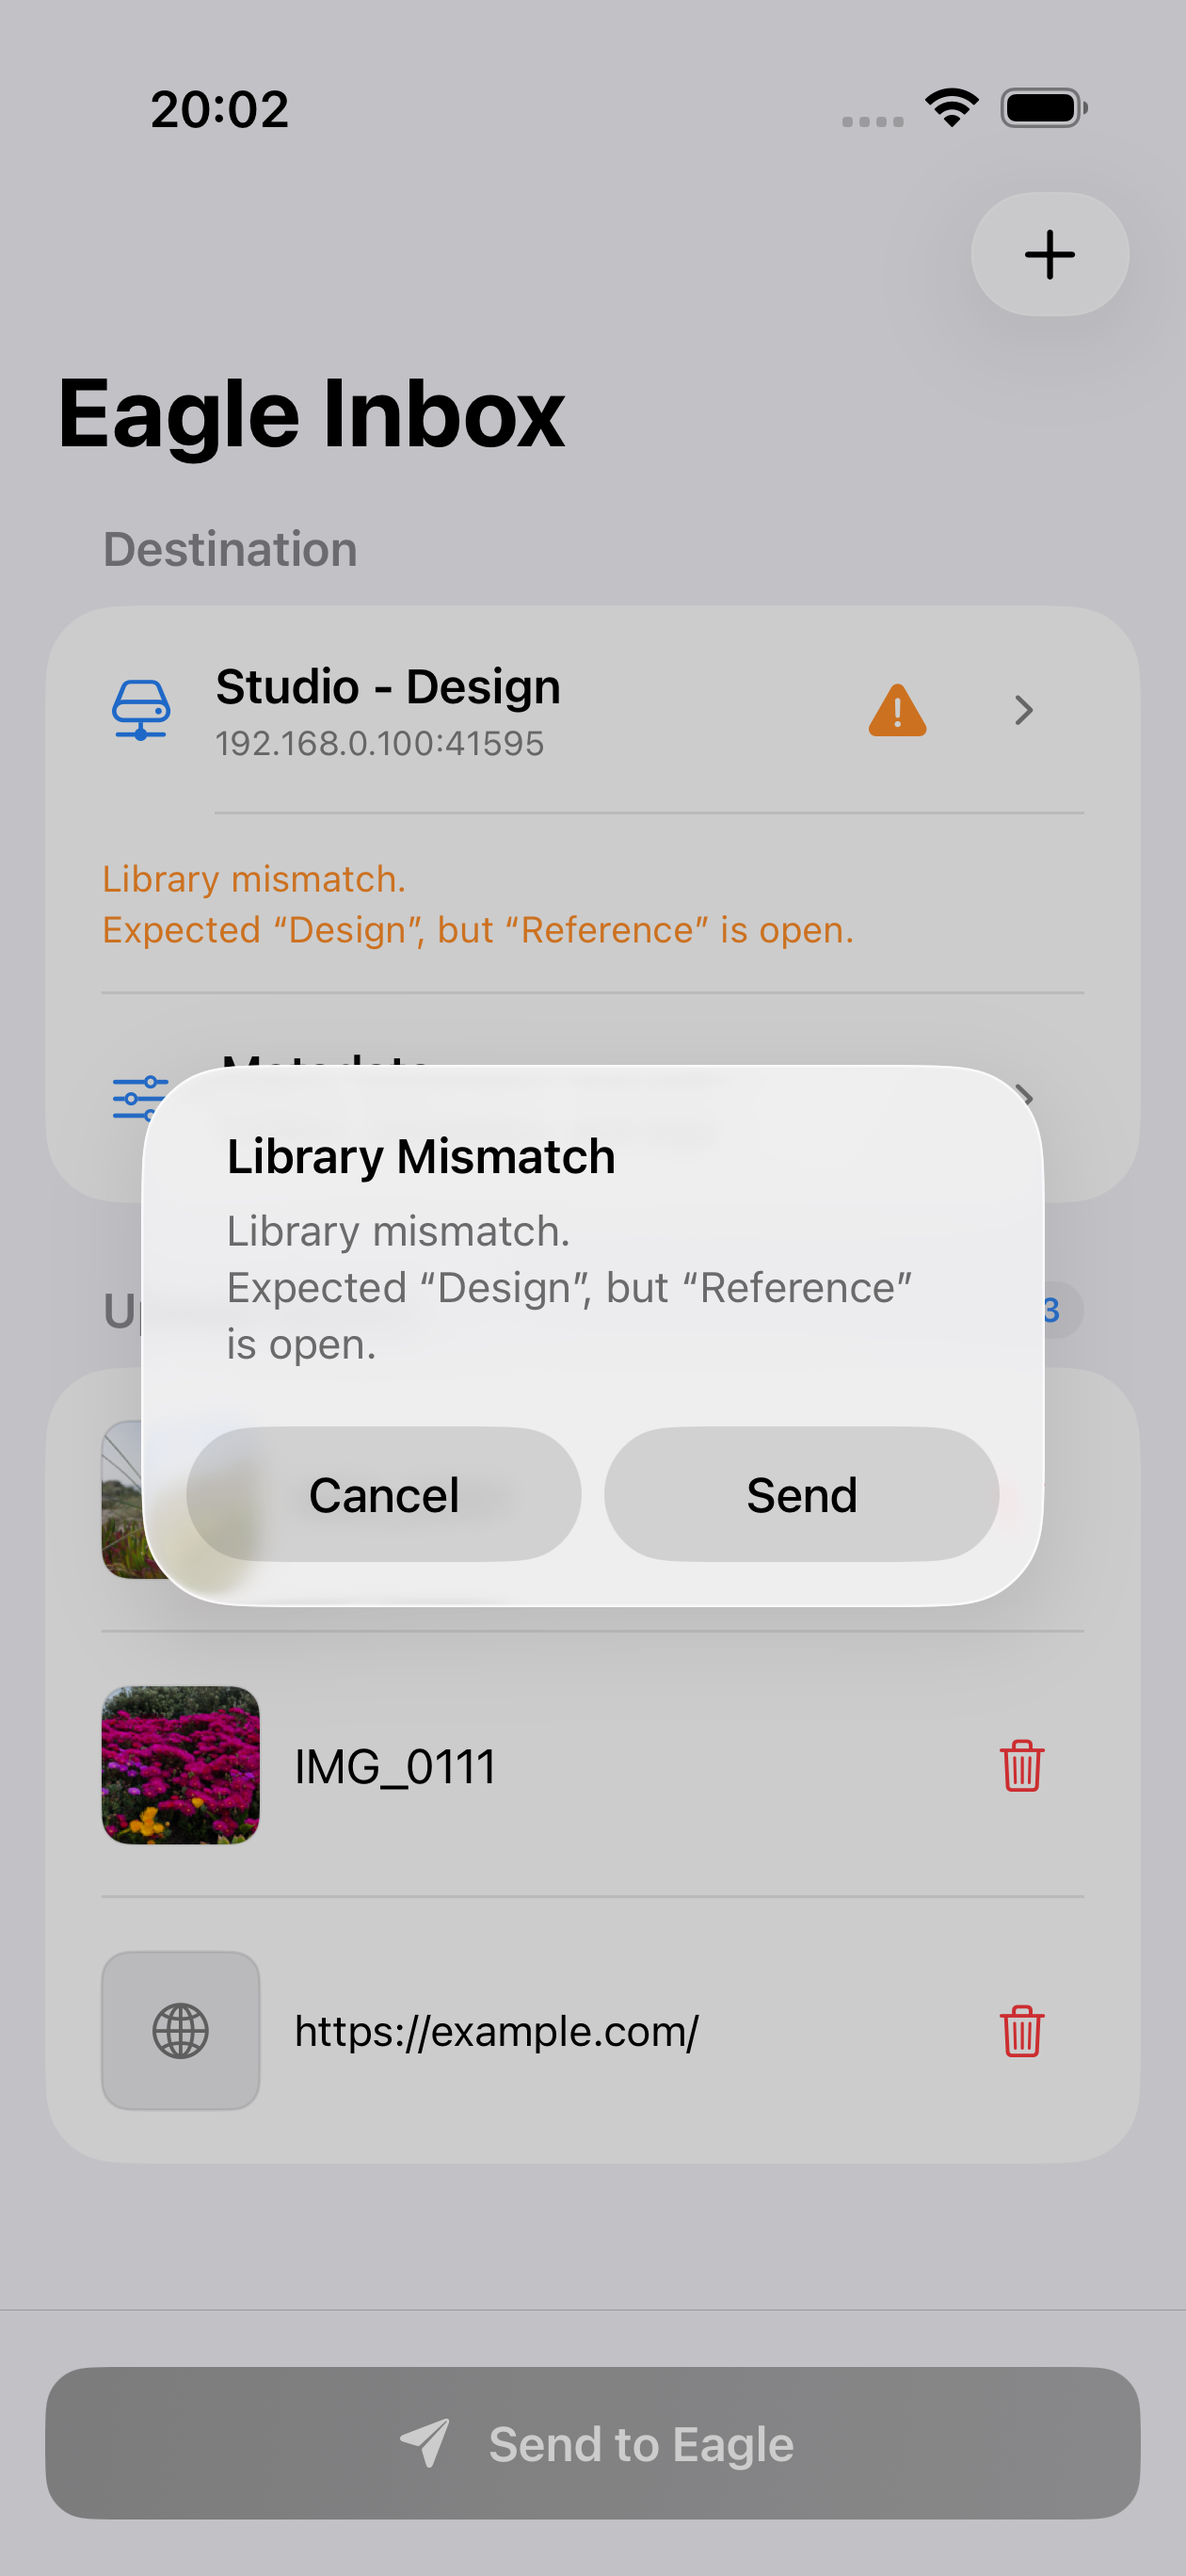
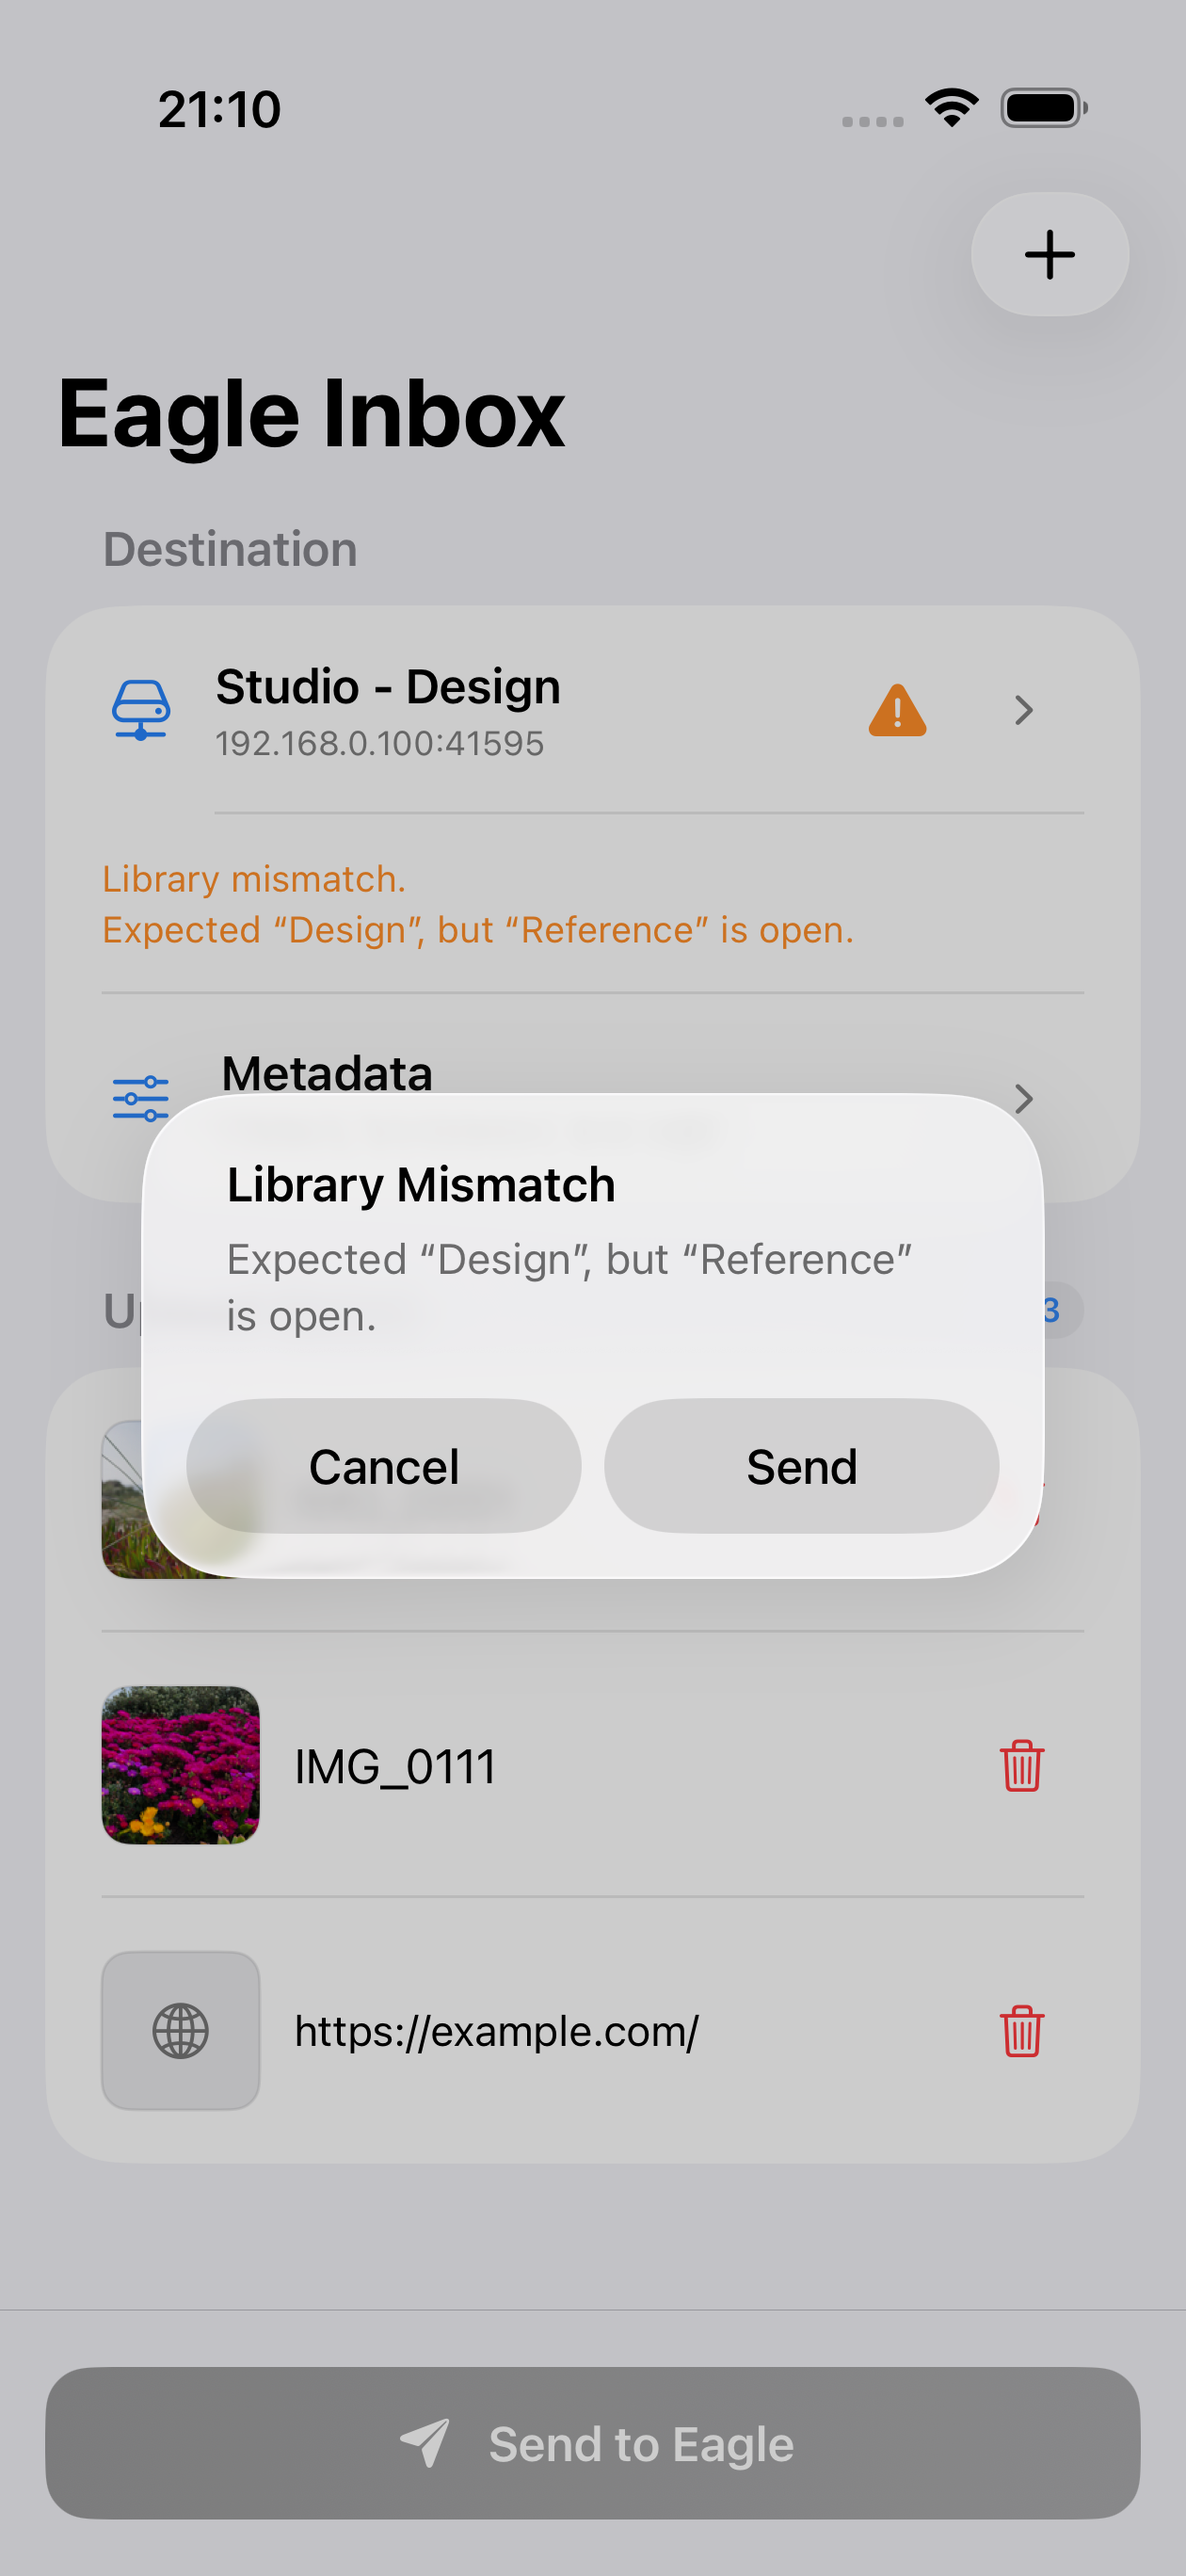
Fix library mismatch messages and update UI alerts for clarity

Changed region(s): [[0.1238, 0.4039, 0.8976, 0.6213], [0.1238, 0.0311, 0.2476, 0.0621], [0.8667, 0.4349, 0.8976, 0.466]]

diff --git a/EagleInboxUITests/ConnectionsNavigationUITests.swift b/EagleInboxUITests/ConnectionsNavigationUITests.swift
@@ -414,12 +414,17 @@ final class ConnectionsNavigationUITests: XCTestCase {
         )
         XCTAssertTrue(alert.buttons["Cancel"].exists)
         XCTAssertTrue(alert.buttons["Send"].exists)
-        let warning = alert.staticTexts.matching(
-            NSPredicate(format: "label CONTAINS %@", "Library mismatch.")
+        let message = alert.staticTexts.matching(
+            NSPredicate(format: "label CONTAINS %@", "Expected")
         ).firstMatch
-        XCTAssertTrue(warning.exists)
-        XCTAssertTrue(warning.label.contains("Design"))
-        XCTAssertTrue(warning.label.contains("Reference"))
+        XCTAssertTrue(message.exists)
+        XCTAssertTrue(message.label.contains("Design"))
+        XCTAssertTrue(message.label.contains("Reference"))
+        XCTAssertFalse(
+            message.label.localizedCaseInsensitiveContains(
+                "Library mismatch."
+            )
+        )
         attachScreenshot(named: "library-mismatch-send-confirmation")
     }
 

diff --git a/EagleInboxShare/ShareUploadView.swift b/EagleInboxShare/ShareUploadView.swift
@@ -151,7 +151,7 @@ struct ShareUploadView: View {
                     }
                 }
                 .alert(
-                    "Different Eagle Library",
+                    "Library Mismatch",
                     isPresented: Binding(
                         get: { model.pendingUploadLibraryMismatch != nil },
                         set: { isPresented in
@@ -169,7 +169,7 @@ struct ShareUploadView: View {
                         startUpload(confirming: mismatch)
                     }
                 } message: { mismatch in
-                    Text(mismatch.warningMessage)
+                    Text(mismatch.uploadConfirmationMessage)
                 }
             }
         }

diff --git a/Tests/CoreSmoke.swift b/Tests/CoreSmoke.swift
@@ -340,6 +340,10 @@ enum CoreSmoke {
             mismatch.warningMessage
                 == "Library mismatch.\nExpected “Design Library”, but “Reference Library” is open."
         )
+        precondition(
+            mismatch.uploadConfirmationMessage
+                == "Expected “Design Library”, but “Reference Library” is open."
+        )
         precondition(mismatch.libraryUpdateConfirmationMessage.contains("Update it to use “Reference Library”?"))
 
         // A changed library is proposed to the editor; applying and saving it

diff --git a/Shared/EagleConnection.swift b/Shared/EagleConnection.swift
@@ -155,6 +155,10 @@ struct EagleLibraryMismatch: Identifiable, Equatable, Sendable {
         "Library mismatch.\nExpected “\(expectedLibraryName)”, but “\(actualLibraryName)” is open."
     }
 
+    var uploadConfirmationMessage: String {
+        "Expected “\(expectedLibraryName)”, but “\(actualLibraryName)” is open."
+    }
+
     var libraryUpdateConfirmationMessage: String {
         "This connection is saved for “\(expectedLibraryName)”, but “\(actualLibraryName)” is open.\n\nUpdate it to use “\(actualLibraryName)”?"
     }

diff --git a/EagleInbox/UploadView.swift b/EagleInbox/UploadView.swift
@@ -122,7 +122,7 @@ struct UploadView: View {
                             startUpload(confirming: mismatch)
                         }
                     } message: { mismatch in
-                        Text(mismatch.warningMessage)
+                        Text(mismatch.uploadConfirmationMessage)
                     }
                     .toolbar {
                         ToolbarItem(placement: .primaryAction) {
